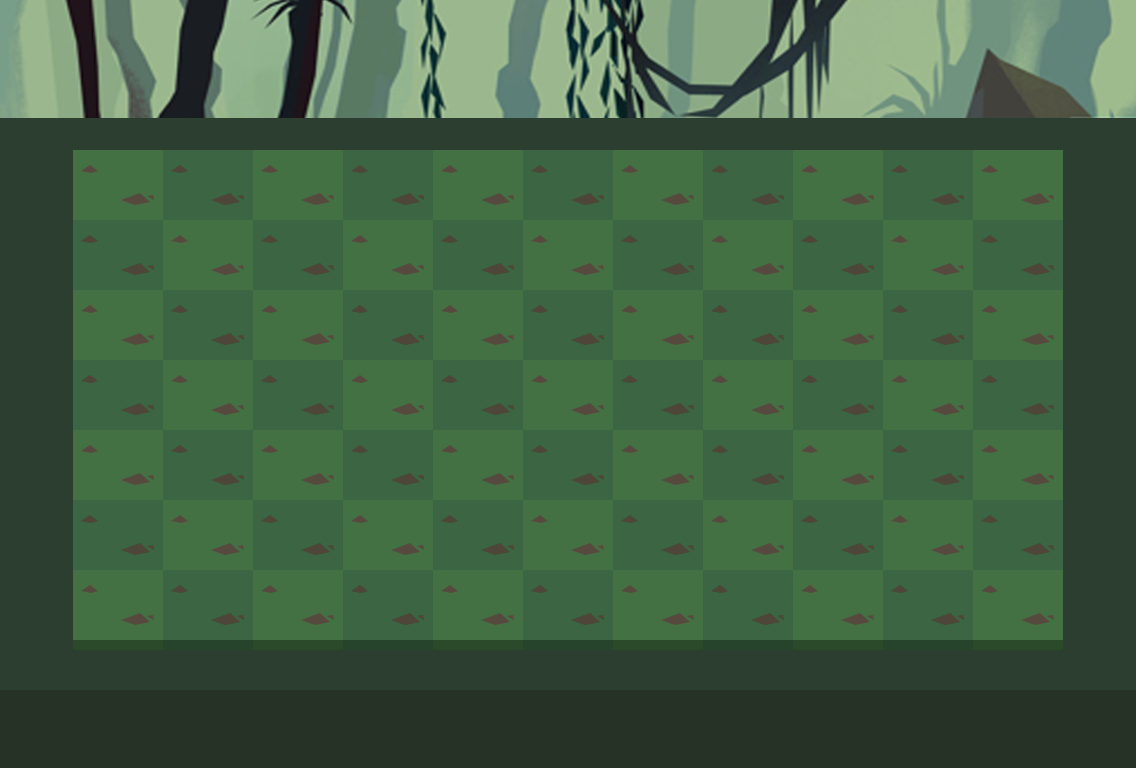
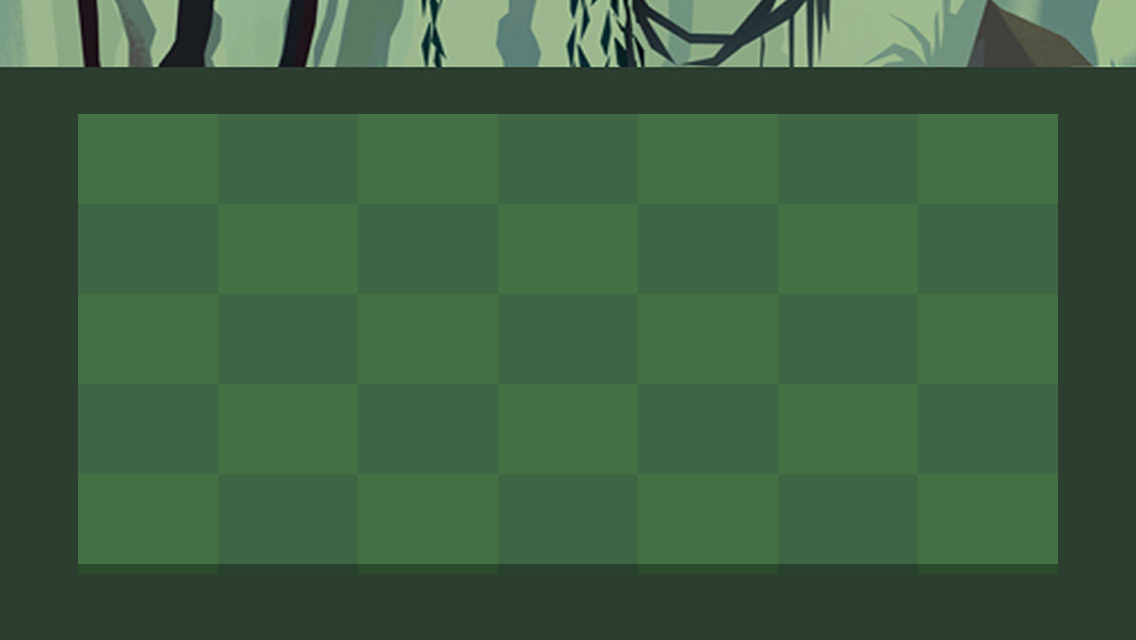
更新整个游戏规格

diff --git a/core/src/com/v5ent/game/utils/Constants.java b/core/src/com/v5ent/game/utils/Constants.java
@@ -4,25 +4,25 @@ package com.v5ent.game.utils;
 public class Constants {
 	//1136 x 640
 	// Visible game world is 16 meters wide
-	public static final float VIEWPORT_WIDTH = 16.0f;
+	public static final float VIEWPORT_WIDTH = 16.0f;//1136/71
 
 	// Visible game world is 9 meters tall
-	public static final float VIEWPORT_HEIGHT = 9.0f;
+	public static final float VIEWPORT_HEIGHT = 9.0f;//640/71
 	
 	//屏幕比率
-	public static float RV_W_RATIO= 1136f/VIEWPORT_WIDTH;
-	public static float RV_H_RATIO = 640f/VIEWPORT_HEIGHT;
+	public static float RV_W_RATIO= 1136f/VIEWPORT_WIDTH;// 71
+	public static float RV_H_RATIO = 640f/VIEWPORT_HEIGHT;// 71
 	// Cell is 5 meters wide
-	public static final float CELL_WIDTH = 90.f/RV_W_RATIO;
+	public static final float CELL_WIDTH = 140.f/RV_W_RATIO;
 	// Cell is 5 meters tall
-	public static final float CELL_HEIGHT = 70.f/RV_H_RATIO;
+	public static final float CELL_HEIGHT = 90.f/RV_H_RATIO;
 	// Cell is 5 meters wide
-	public static final int MAP_ROWS = 7;
+	public static final int MAP_ROWS = 5;
 	// Cell is 5 meters tall
-	public static final int MAP_COLS = 11;
+	public static final int MAP_COLS = 7;
 
 	// Location of image file for level 01
-	public static final String BACKGROUND = "battle/background.jpg";
+	public static final String BACKGROUND = "battle/background.png";
 
 	public static final String MOVE_CELL = "battle/move-cell.png";
 

diff --git a/core/src/com/v5ent/game/core/WorldController.java b/core/src/com/v5ent/game/core/WorldController.java
@@ -109,7 +109,6 @@ public class WorldController extends InputAdapter implements GestureListener {
 	}
 
 	public void update (float deltaTime) {
-//		handleDebugInput(deltaTime);
 		updateObjects(deltaTime);
 		if(gameState == GameState.FIGHT){
 			//TODO: command
